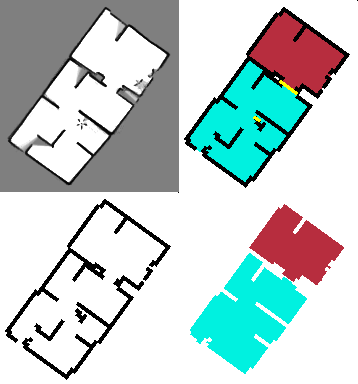
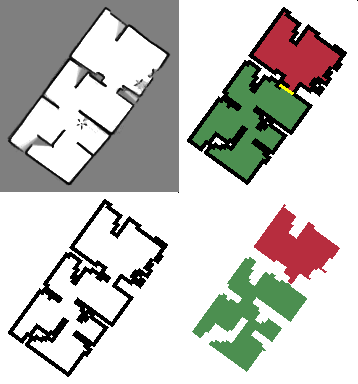
코드 수정 필요함

diff --git a/src/utility.cpp b/src/utility.cpp
@@ -55,14 +55,25 @@ cv::Mat extractMat2Mat(cv::Mat &image, uchar pixel_value)
     return dst;
 }
 
-
-
-
 // 거리 계산 함수
 double calculateDistance(const cv::Point &p1, const cv::Point &p2)
 {
     return sqrt(pow(p2.x - p1.x, 2) + pow(p2.y - p1.y, 2));
 }
+
+// 가까운 두 점 통합 함수 (평균값을 사용하여 통합)
+cv::Point mergePoints(const cv::Point& p1, const cv::Point& p2) {
+    return cv::Point((p1.x + p2.x) / 2, (p1.y + p2.y) / 2);
+}
+
+// 선분의 중간점 계산 함수
+std::pair<cv::Point, cv::Point> mergeSegments(const std::pair<cv::Point, cv::Point>& seg1,
+                                            const std::pair<cv::Point, cv::Point>& seg2) {
+    cv::Point mid1 = (seg1.first + seg2.first) / 2;
+    cv::Point mid2 = (seg1.second + seg2.second) / 2;
+    return {mid1, mid2};
+}
+
 
 // 점들을 순차적으로 정렬하여 실선 재구성
 std::vector<cv::Point> sortPoints(const std::vector<cv::Point> &points)
@@ -197,45 +208,90 @@ double calculateSlope(const cv::Point& p1, const cv::Point& p2) {
     return static_cast<double>(p2.y - p1.y) / static_cast<double>(p2.x - p1.x);
 }
 
-// 기울기를 90도 또는 180도로 조정하는 함수
-void adjustLineSlope(cv::Point& p1, cv::Point& p2, int rows, int cols) 
-{
-    
-    // 같은 점인지 확인
-    if (p1 == p2) {
-        std::cerr << "Error: 두 점이 동일합니다. 선 조정을 할 수 없습니다." << std::endl;
-        return;
-    }
 
-    // 좌표 값의 범위를 검사 (예시로 좌표 값의 범위를 0 ~ 10000으로 설정)
-    if (p1.x < 0 || p1.y < 0 || p2.x < 0 || p2.y < 0 || 
-        p1.x > cols-1 || p1.y > rows-1 || p2.x > cols-1 || p2.y > rows-1)
-    {
-        std::cerr << "Error: 좌표 값이 허용된 범위를 벗어났습니다." << std::endl;
-        return;
-    }
 
-    double slope = calculateSlope(p1, p2);
-    // 아크탄젠트를 이용해 라디안 값을 구한 후 각도로 변환 (라디안 -> 각도 변환: 180 / PI)
-    double angle = atan(slope) * (180.0 / M_PI);   
-    
-    if (std::isinf(slope) || abs(slope) <= 10) {
-        //수직        
-          
-        std::cout << "수직 - slope: " << slope << ", angle: " << angle << std::endl;
-        int mean_x = round((p1.x + p2.x)/2);        
-        p1.x = mean_x;   // 두 점의 X 좌표를 같게 만들어 수직선으로 만듭니다.
-        p2.x = mean_x;                
-    }
-    else {        
-        //수평           
+// 근접한 선 성분을 찾아 평균값으로 갱신하는 함수
+void mergeCloseSegments(std::vector<std::pair<cv::Point, cv::Point>>& segments, double threshold) {
+    for (size_t i = 0; i < segments.size() - 1; ++i) {
+        for (size_t j = i + 1; j < segments.size(); ++j) {
+            
+            double dist1 = calculateDistance(segments[i].first, segments[j].first);
+            double dist2 = calculateDistance(segments[i].second, segments[j].second);
 
-        int mean_y = round((p1.y + p2.y)/2);
-        p1.y = mean_y;  // 두 점의 Y 좌표를 같게 만들어 수평선으로 만듭니다.
-        p2.y = mean_y;      
-        
-        std::cout << "수평 - slope: " << slope << ", angle: " << angle << std::endl;
+            std::cout << "dist1: " << dist1 << ", dist2: " << dist2 << std::endl;
+
+            // 두 선분이 일정 거리 이하로 가까운 경우 통합
+            if (dist1 <= threshold && dist2 <= threshold) {
+                
+                auto mergedSegment = mergeSegments(segments[i], segments[j]);
+                
+                segments[i] = mergedSegment;
+                // j번째 선분을 삭제
+                segments.erase(segments.begin() + j);
+                --j;  // 삭제 후 인덱스 조정
+
+                std::cout << "Merged segment " << i << " with " << j << ":\n";
+                std::cout << "New segment: [(" << mergedSegment.first.x << ", " << mergedSegment.first.y << "), ("
+                        << mergedSegment.second.x << ", " << mergedSegment.second.y << ")]\n";
+            }
+        }
     }
 }
 
+// 기울기를 90도 또는 180도로 조정하는 함수
+std::pair<cv::Point, cv::Point> adjustLineSlope(std::pair<cv::Point, cv::Point> lines, bool* state)
+{
 
+    cv::Point p1 = lines.first;
+    cv::Point p2 = lines.second;
+
+    std::pair<cv::Point, cv::Point> agjustline;
+
+    // 같은 점인지 확인
+    if (p1 == p2)
+    {
+        std::cerr << "Error: 두 점이 동일합니다. 선 조정을 할 수 없습니다." << std::endl;      
+        *state = 2;
+    }
+    else
+    {
+        // 좌표 값의 범위를 검사 (예시로 좌표 값의 범위를 0 ~ 10000으로 설정)
+
+        double slope = calculateSlope(p1, p2);
+        // 아크탄젠트를 이용해 라디안 값을 구한 후 각도로 변환 (라디안 -> 각도 변환: 180 / PI)
+        double angle = atan(slope) * (180.0 / M_PI);
+
+        if (abs(angle) >= 60.0)
+        {
+            // if (std::isinf(slope) || (abs(slope) <= 10 &&  abs(slope) > 0) ) {
+            *state = 0;
+            // 수직
+            std::cout << *state << " slope: " << abs(slope) << ", angle: " << abs(angle) << std::endl;
+            int mean_x = round((p1.x + p2.x) / 2);
+            
+            agjustline.first.x = mean_x;
+            agjustline.first.y = p1.y;
+
+            agjustline.second.x = mean_x;
+            agjustline.second.y = p2.y;
+        }
+        else if (abs(angle) <=30.0 )
+        {
+            // 수평
+            *state = 1;
+            std::cout << *state << " slope: " << abs(slope) << ", angle: " << abs(angle) << std::endl;
+            int mean_y = round((p1.y + p2.y) / 2);
+            
+            agjustline.first.x = p1.x;
+            agjustline.first.y = mean_y;
+
+            agjustline.second.x = p2.x;
+            agjustline.second.y = mean_y;
+        }
+        else 
+        {
+            *state = 2;
+        }
+    }
+    return agjustline;
+}

diff --git a/include/utility.h b/include/utility.h
@@ -25,6 +25,6 @@ std::vector<cv::Point> edgePointsInCircle(const cv::Point &center, int radius);
 void drawingOutLineCircule(const cv::Mat &image,cv::Point circlesCenters, int radius);
 
 double calculateSlope(const cv::Point& p1, const cv::Point& p2);
-void adjustLineSlope(cv::Point& p1, cv::Point& p2, int rows, int cols);
-
+std::pair<cv::Point, cv::Point> adjustLineSlope(std::pair<cv::Point, cv::Point> lines, bool* state);
+void mergeCloseSegments(std::vector<std::pair<cv::Point, cv::Point>>& points, double threshold = 5.0);
 #endif 

diff --git a/run_test2.cpp b/run_test2.cpp
@@ -6,7 +6,7 @@
 #include <cmath>
 
 //#include "utility.h"
-#include "roomSeg.h"
+#include "roomSeg2.h"
 
 using namespace cv;
 using namespace std;

diff --git a/include/roomSeg2.h b/include/roomSeg2.h
@@ -1,5 +1,5 @@
-#ifndef _ROOMSEG_H
-#define _ROOMSEG_H
+#ifndef _ROOMSEG2_H
+#define _ROOMSEG2_H
 
 #pragma once
 
